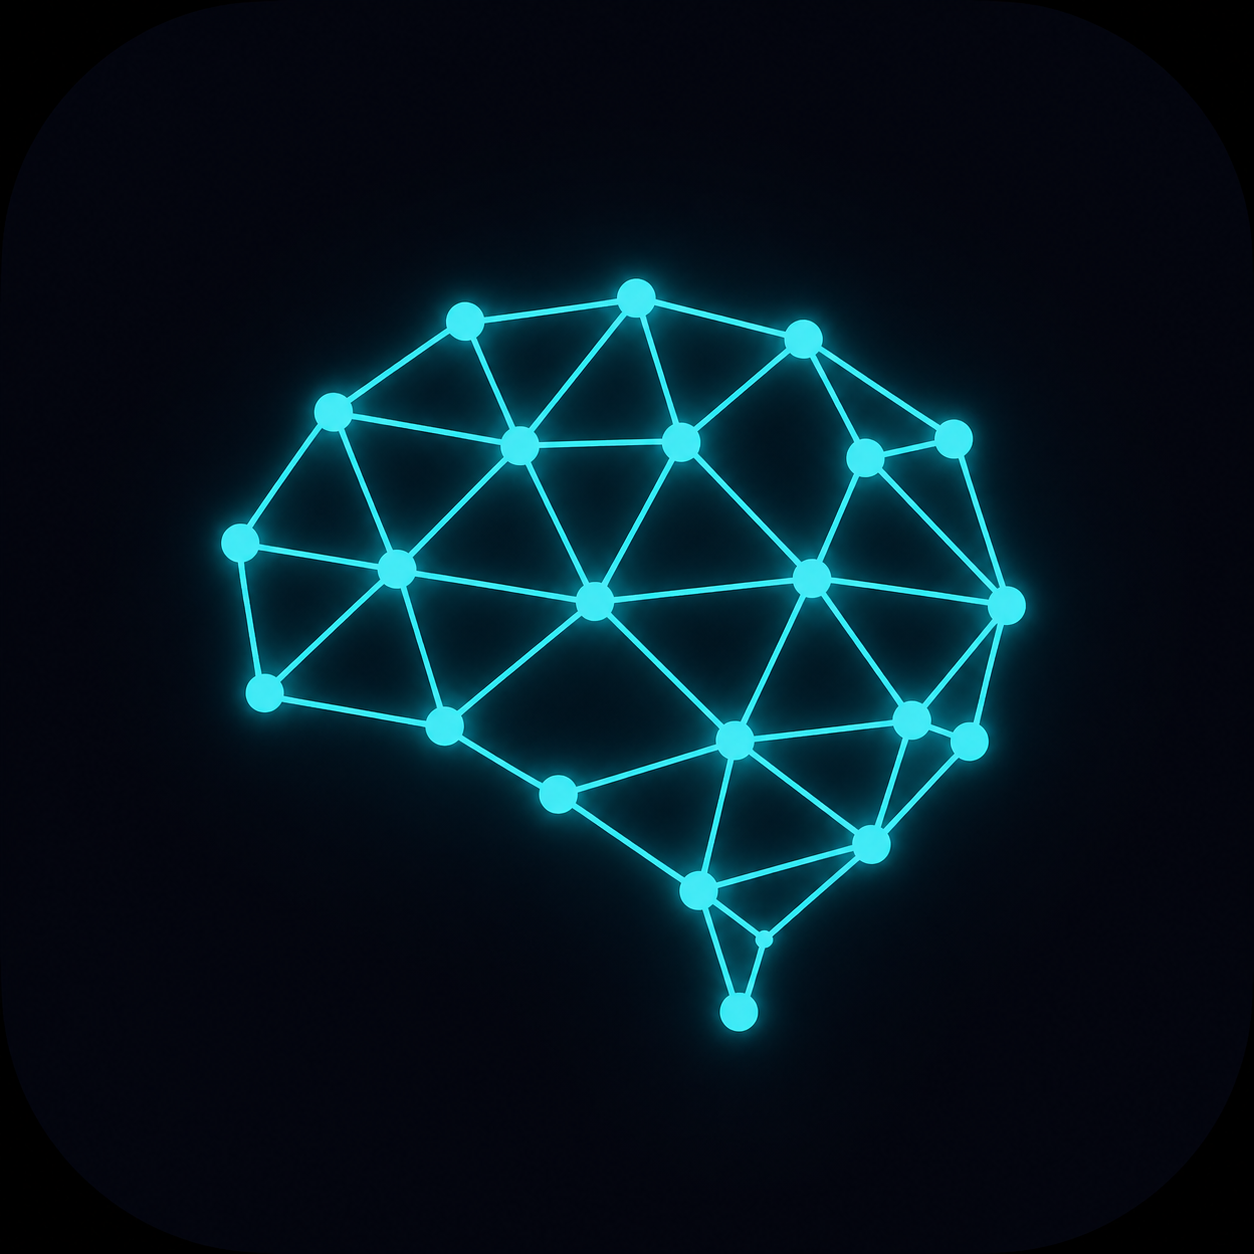
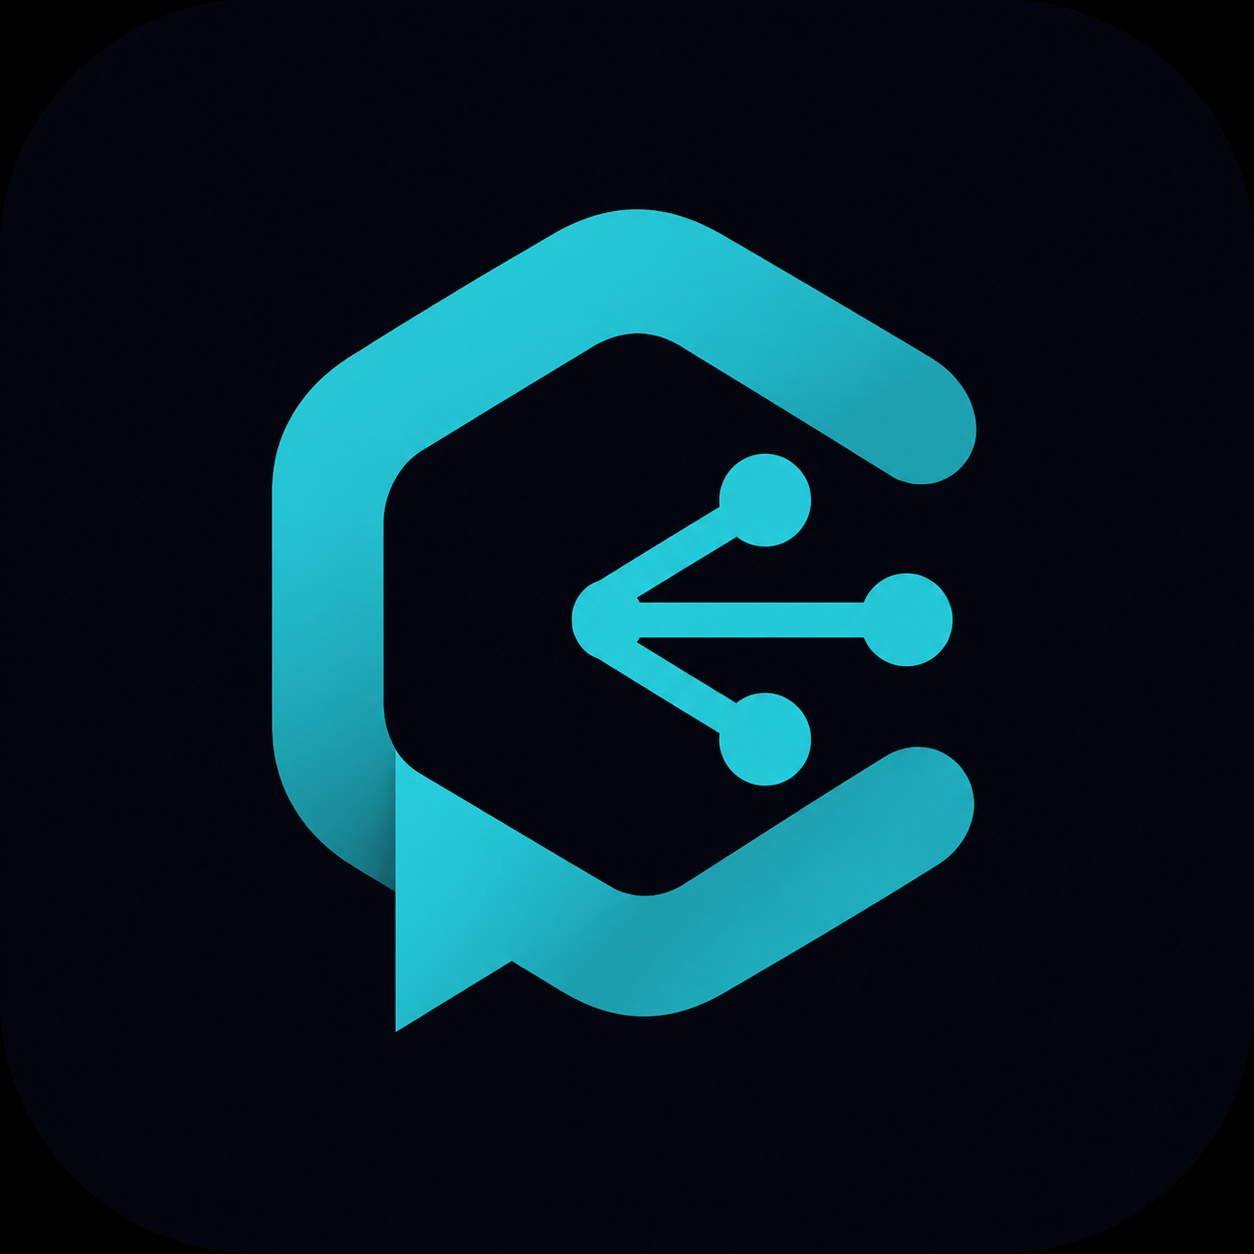
feat(chat): add message management actions for removing AI messages and editing user messages

Changed region(s): [[0.1555, 0.1555, 0.8397, 0.8397]]

diff --git a/Frontend/src/features/chat/pages/Dashboard.jsx b/Frontend/src/features/chat/pages/Dashboard.jsx
@@ -1,6 +1,7 @@
 import React, { useEffect, useRef, useState } from "react";
 import ReactMarkdown from "react-markdown";
-import { useSelector } from "react-redux";
+import { useSelector, useDispatch } from "react-redux";
+import { removeLastAiMessage, removeMessagesFrom } from "../chat.slice.js";
 import { useChat } from "../hooks/useChat";
 import remarkGfm from "remark-gfm";
 import { useAuth } from "../../auth/hook/useAuth";
@@ -12,6 +13,7 @@ import {
   Trash2, X, FileText, Search, MoreHorizontal, PanelLeftClose,
   PanelLeftOpen, Download, EyeOff, Eye, ChevronRight, Share2,
   Copy, Check, Link as LinkIcon, Clock, Menu,
+  ThumbsUp, ThumbsDown, RotateCcw, Pencil,
 } from "lucide-react";
 
 const MODELS = [
@@ -43,6 +45,7 @@ const saveHiddenChats = (hiddenSet) => {
 
 const Dashboard = () => {
   const chat        = useChat();
+  const dispatch    = useDispatch();
   const chats       = useSelector((state) => state.chat.chats);
   const currentChatId = useSelector((state) => state.chat.currentChatId);
   const isStreaming = useSelector((state) => state.chat.isStreaming);
@@ -50,6 +53,11 @@ const Dashboard = () => {
   const user        = useSelector((state) => state.auth.user);
   const auth        = useAuth();
   const { exportChat } = usePdfExport();
+
+  // Message action state
+  const [copiedIndex,   setCopiedIndex]   = useState(null);   // index of copied message
+  const [feedbackMap,   setFeedbackMap]   = useState({});     // { [index]: "up" | "down" }
+  const [editingIndex,  setEditingIndex]  = useState(null);   // index of message being edited
 
   // Input state
   const [chatInput,      setChatInput]      = useState("");
@@ -215,6 +223,47 @@ const Dashboard = () => {
 
   const handleRemoveAttachment = () => setFileAttachment(null);
 
+  // ── Copy message ──
+  const handleCopyMessage = (content, index) => {
+    navigator.clipboard.writeText(content);
+    setCopiedIndex(index);
+    setTimeout(() => setCopiedIndex(null), 2000);
+  };
+
+  // ── Regenerate last AI response ──
+  const handleRegenerate = () => {
+    if (!currentChatId || isStreaming) return;
+    const messages = chats[currentChatId]?.messages || [];
+    // Find last user message
+    let lastUserMsg = null;
+    for (let i = messages.length - 1; i >= 0; i--) {
+      if (messages[i].role === "user") { lastUserMsg = messages[i]; break; }
+    }
+    if (!lastUserMsg) return;
+    dispatch(removeLastAiMessage({ chatId: currentChatId }));
+    chat.handleSendMessage({
+      message: lastUserMsg.content,
+      chatId: currentChatId,
+      model: selectedModel,
+      file: lastUserMsg.file || null,
+    });
+  };
+
+  // ── Thumbs feedback ──
+  const handleFeedback = (index, value) => {
+    setFeedbackMap((prev) => ({
+      ...prev,
+      [index]: prev[index] === value ? null : value,
+    }));
+  };
+
+  // ── Edit user message ──
+  const handleEditMessage = (content, index) => {
+    if (isStreaming) return;
+    setChatInput(content);
+    setEditingIndex(index);
+  };
+
   // ── Mic ──
   const handleMicClick = () => {
     const SpeechRecognition = window.SpeechRecognition || window.webkitSpeechRecognition;
@@ -243,6 +292,13 @@ const Dashboard = () => {
     e?.preventDefault();
     const trimmed = chatInput.trim();
     if ((!trimmed && !fileAttachment) || isStreaming) return;
+
+    // Edit mode — remove messages from that index onward, then re-send
+    if (editingIndex !== null && currentChatId) {
+      dispatch(removeMessagesFrom({ chatId: currentChatId, fromIndex: editingIndex }));
+      setEditingIndex(null);
+    }
+
     chat.handleSendMessage({
       message: trimmed || (fileAttachment ? "Attached file" : ""),
       chatId: currentChatId,
@@ -575,38 +631,112 @@ const Dashboard = () => {
               </div>
             )}
 
-            {chats[currentChatId]?.messages.map((message, index) => (
-              <div key={index} className={`max-w-[80%] w-fit rounded-2xl px-4 py-3 text-sm md:text-base ${message.role === "user" ? "ml-auto rounded-br-none bg-white/10 text-white" : "mr-auto text-white/90"}`}>
-                {message.file && (
-                  <div className="mb-2">
-                    {message.file.mimeType?.startsWith("image/") ? (
-                      <img src={message.file.previewUrl || `data:${message.file.mimeType};base64,${message.file.base64}`} alt={message.file.name} className="max-h-48 max-w-xs rounded-xl object-cover" />
-                    ) : (
-                      <div className="flex items-center gap-2 rounded-lg border border-white/20 bg-white/5 px-3 py-2 text-xs text-white/60">
-                        <FileText size={13} />
-                        <span className="truncate max-w-[180px]">{message.file.name}</span>
+            {chats[currentChatId]?.messages.map((message, index) => {
+              const isUser = message.role === "user";
+              const isLastAi = !isUser && (() => {
+                const msgs = chats[currentChatId]?.messages || [];
+                for (let i = msgs.length - 1; i >= 0; i--) {
+                  if (msgs[i].role === "ai") return i === index;
+                }
+                return false;
+              })();
+
+              return (
+                <div key={index} className={`group/msg flex flex-col ${isUser ? "items-end" : "items-start"}`}>
+                  {/* Bubble */}
+                  <div className={`max-w-[85%] w-fit rounded-2xl px-4 py-3 text-sm md:text-base ${isUser ? "rounded-br-none bg-white/10 text-white" : "text-white/90"}`}>
+                    {message.file && (
+                      <div className="mb-2">
+                        {message.file.mimeType?.startsWith("image/") ? (
+                          <img src={message.file.previewUrl || `data:${message.file.mimeType};base64,${message.file.base64}`} alt={message.file.name} className="max-h-48 max-w-xs rounded-xl object-cover" />
+                        ) : (
+                          <div className="flex items-center gap-2 rounded-lg border border-white/20 bg-white/5 px-3 py-2 text-xs text-white/60">
+                            <FileText size={13} />
+                            <span className="truncate max-w-[180px]">{message.file.name}</span>
+                          </div>
+                        )}
                       </div>
                     )}
+                    {isUser ? (
+                      <p>{message.content}</p>
+                    ) : (
+                      <ReactMarkdown
+                        components={{
+                          p: ({ children }) => <p className="mb-2 last:mb-0">{children}</p>,
+                          ul: ({ children }) => <ul className="mb-2 list-disc pl-5">{children}</ul>,
+                          ol: ({ children }) => <ol className="mb-2 list-decimal pl-5">{children}</ol>,
+                          code: ({ children }) => <code className="rounded bg-white/10 px-1 py-0.5 text-sm">{children}</code>,
+                          pre: ({ children }) => <pre className="mb-2 overflow-x-auto rounded-xl bg-black/30 p-3">{children}</pre>,
+                        }}
+                        remarkPlugins={[remarkGfm]}
+                      >
+                        {message.content}
+                      </ReactMarkdown>
+                    )}
                   </div>
-                )}
-                {message.role === "user" ? (
-                  <p>{message.content}</p>
-                ) : (
-                  <ReactMarkdown
-                    components={{
-                      p: ({ children }) => <p className="mb-2 last:mb-0">{children}</p>,
-                      ul: ({ children }) => <ul className="mb-2 list-disc pl-5">{children}</ul>,
-                      ol: ({ children }) => <ol className="mb-2 list-decimal pl-5">{children}</ol>,
-                      code: ({ children }) => <code className="rounded bg-white/10 px-1 py-0.5 text-sm">{children}</code>,
-                      pre: ({ children }) => <pre className="mb-2 overflow-x-auto rounded-xl bg-black/30 p-3">{children}</pre>,
-                    }}
-                    remarkPlugins={[remarkGfm]}
-                  >
-                    {message.content}
-                  </ReactMarkdown>
-                )}
-              </div>
-            ))}
+
+                  {/* Action bar */}
+                  <div className={`mt-1 flex items-center gap-1 opacity-0 group-hover/msg:opacity-100 transition-opacity duration-150 ${isUser ? "flex-row-reverse" : "flex-row"}`}>
+                    {/* Copy — all messages */}
+                    <button
+                      type="button"
+                      onClick={() => handleCopyMessage(message.content, index)}
+                      className="flex h-6 w-6 items-center justify-center rounded-lg text-white/25 hover:text-white/70 hover:bg-white/5 transition"
+                      title="Copy"
+                    >
+                      {copiedIndex === index ? <Check size={12} className="text-[#31b8c6]" /> : <Copy size={12} />}
+                    </button>
+
+                    {/* AI-only actions */}
+                    {!isUser && (
+                      <>
+                        <button
+                          type="button"
+                          onClick={() => handleFeedback(index, "up")}
+                          className={`flex h-6 w-6 items-center justify-center rounded-lg transition hover:bg-white/5 ${feedbackMap[index] === "up" ? "text-[#31b8c6]" : "text-white/25 hover:text-white/70"}`}
+                          title="Good response"
+                        >
+                          <ThumbsUp size={12} />
+                        </button>
+                        <button
+                          type="button"
+                          onClick={() => handleFeedback(index, "down")}
+                          className={`flex h-6 w-6 items-center justify-center rounded-lg transition hover:bg-white/5 ${feedbackMap[index] === "down" ? "text-red-400" : "text-white/25 hover:text-white/70"}`}
+                          title="Bad response"
+                        >
+                          <ThumbsDown size={12} />
+                        </button>
+                        {/* Regenerate — last AI message only */}
+                        {isLastAi && (
+                          <button
+                            type="button"
+                            onClick={handleRegenerate}
+                            disabled={isStreaming}
+                            className="flex h-6 w-6 items-center justify-center rounded-lg text-white/25 hover:text-white/70 hover:bg-white/5 transition disabled:opacity-30"
+                            title="Regenerate response"
+                          >
+                            <RotateCcw size={12} />
+                          </button>
+                        )}
+                      </>
+                    )}
+
+                    {/* Edit — user messages only */}
+                    {isUser && (
+                      <button
+                        type="button"
+                        onClick={() => handleEditMessage(message.content, index)}
+                        disabled={isStreaming}
+                        className={`flex h-6 w-6 items-center justify-center rounded-lg transition hover:bg-white/5 disabled:opacity-30 ${editingIndex === index ? "text-[#31b8c6]" : "text-white/25 hover:text-white/70"}`}
+                        title="Edit message"
+                      >
+                        <Pencil size={12} />
+                      </button>
+                    )}
+                  </div>
+                </div>
+              );
+            })}
 
             {isStreaming && (
               <div className="mr-auto flex gap-1 px-4 py-3">
@@ -621,6 +751,18 @@ const Dashboard = () => {
           {/* Input footer */}
           <div className="absolute bottom-0 left-0 right-0 p-2 pb-[max(0.5rem,env(safe-area-inset-bottom))]">
             <div className="rounded-2xl border border-white/15 bg-[#0e1117] p-3 shadow-xl">
+              {/* Edit mode indicator */}
+              {editingIndex !== null && (
+                <div className="mb-2 flex items-center justify-between rounded-lg bg-[#31b8c6]/10 border border-[#31b8c6]/20 px-3 py-1.5">
+                  <div className="flex items-center gap-2 text-xs text-[#31b8c6]">
+                    <Pencil size={11} />
+                    <span>Editing message</span>
+                  </div>
+                  <button type="button" onClick={() => { setEditingIndex(null); setChatInput(""); }} className="text-white/30 hover:text-white/70 transition">
+                    <X size={11} />
+                  </button>
+                </div>
+              )}
               {fileAttachment && (
                 <div className="mb-2 flex items-center gap-2">
                   {fileAttachment.previewUrl ? (

diff --git a/Frontend/src/features/chat/chat.slice.js b/Frontend/src/features/chat/chat.slice.js
@@ -78,6 +78,24 @@ const chatSlice = createSlice({
                 state.currentChatId = null;
             }
         },
+        // Removes the last AI message — used by Regenerate
+        removeLastAiMessage: (state, action) => {
+            const { chatId } = action.payload;
+            if (!state.chats[chatId]) return;
+            const messages = state.chats[chatId].messages;
+            for (let i = messages.length - 1; i >= 0; i--) {
+                if (messages[i].role === "ai") {
+                    messages.splice(i, 1);
+                    break;
+                }
+            }
+        },
+        // Removes all messages from a given index onward — used by Edit message
+        removeMessagesFrom: (state, action) => {
+            const { chatId, fromIndex } = action.payload;
+            if (!state.chats[chatId]) return;
+            state.chats[chatId].messages = state.chats[chatId].messages.slice(0, fromIndex);
+        },
     }
 });
 
@@ -95,6 +113,8 @@ export const {
     setPendingMessage,
     clearPendingMessage,
     removeChat,
+    removeLastAiMessage,
+    removeMessagesFrom,
 } = chatSlice.actions;
 
 export default chatSlice.reducer;